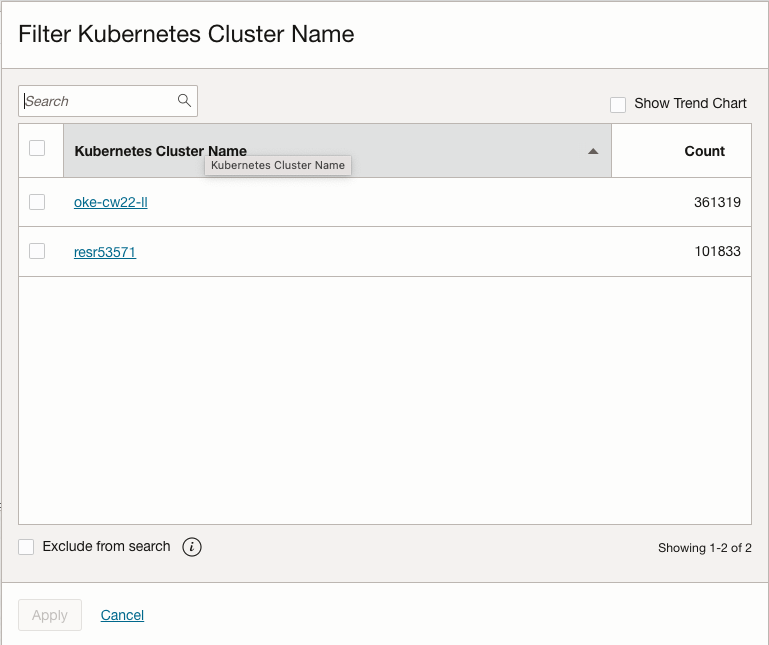
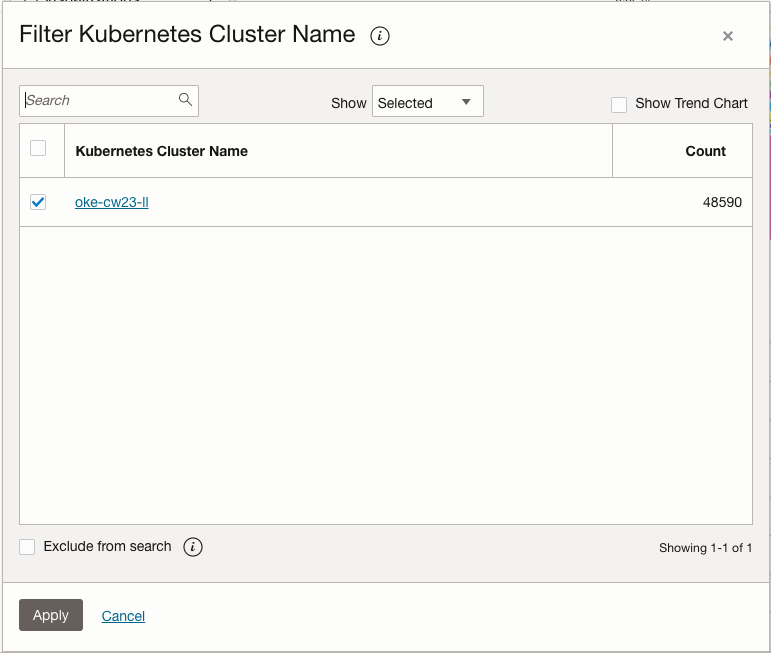
Lab 3 Task 3 Updated
Lab 3 Task 3 Updated

diff --git a/logging-analytics/oke-monitoring-la/analyzing-logs/analyzing-logs.md b/logging-analytics/oke-monitoring-la/analyzing-logs/analyzing-logs.md
@@ -14,12 +14,12 @@ Estimated Time: 30 minutes
 
 ## Task 1: View the Logs in Log Explorer
 1. From Navigation Menu ![navigation-menu](images/navigation-menu.png) > **Observability & Management** > **Logging Analytics** > **Log Explorer**.
-    > Note : For a quick refresher on Log Explorer GUI [review Lab 1](?lab=log-explorer-gui).
+    > **Note** : For a quick refresher on Log Explorer GUI [review Lab 1](?lab=log-explorer-gui).
 
 2. Once you land on the **Log Explorer** page if the scope has pre-selected **Log Group Compartment**, then you can reset it by clicking on the `x` icon.
    ![close-icon-for-scope-filter](images/close-icon-for-scope-filter.png)
     
-    > Note: If you have followed this step you can skip the below step.
+    > **Note**: If you have followed this step you can skip the below step.
    
    **OR**
 
@@ -46,7 +46,7 @@ Estimated Time: 30 minutes
 
 
 5. The **Pie** chart view in the context of **Log Group** will be displayed along with logrecords count for each **Log Group**.
-      > Note : The **Log Group** <em>kubernetes_logs</em> is precreated and it has VCN, LBaaS logs and it also has a copy of Kubernetes Logs ingested through Kubernetes Cluster **oke-cw23-II**.
+      > **Note** : The **Log Group** <em>kubernetes_logs</em> is precreated and it has VCN, LBaaS logs and it also has a copy of Kubernetes Logs ingested through Kubernetes Cluster **oke-cw23-II**.
    
    ![pie-chart-view-log-count](images/pie-chart-view-log-count.png) 
 
@@ -73,99 +73,82 @@ Estimated Time: 30 minutes
       ![sunburst-data-lg-ls](images/sunburst-data-lg-ls.png)
 
   - You can also hover over different colors of **Sunburst** chart to view the stats of the **Log Source**.
-         
+
+7. Before proceeding to **Task 2** perform the following step. 
+   - Click on **Actions** and in the menu item select **Create New**.
+     ![actions-create-new](images/actions-create-new.png)
+
+
+## Task 2 : Get inventory of namespace, pods, services, nodes for your cluster
 
 
 
-## Task 2 (To Be Removed as Task 1 End Notes Cover This): Review Logs in Log Groups
-
-1. Select the visualization **Horizontal Bar**. This will take you to the **Horizontal Bar** view in context of **Log Group** along with logrecords count for each **Log Group**.
-    ![horizontal-bar-view](images/horizontal-bar-view.png)
-    ![log-records-horizontal-bar-view](images/log-records-horizontal-bar-view.png)
-    
-
-2. In the Fields panel, in the Search Fields textbox, search for the field **Log Source**.
-    ![log-source-field-search](images/log-source-field-search.png)
-
-
-3. Drag and Drop the **Log Source** field in the **Group by** textbox under Visualization Panel and click **Apply**.
-    ![group-by-logsource-loggroup](images/group-by-logsource-loggroup.png)  
-
-4. The results will be grouped by **Log Source** and **Log Group**.
-    ![horizontal-bar-view-for-loggroup-logsource](images/horizontal-bar-view-for-loggroup-logsource.png)  
-
-
-5. You can also use the following query in the **Query Bar** to get the view the results.
-    > **Note:** Run this query only after step 1 is finished.
-
-      ```
-         <copy>
-           * | stats count as logrecords by 'Log Group', 'Log Source' | sort -logrecords
-          </copy>
-       ``` 
-
-6. (Optional) You can select any other visualization (e.g Sunburst, TreeMap etc) from the  **Visualizations** panel to view the data.  
-
-
-## Task 3 (To Be Updated and Task 5 will be removed): Get inventory of namespace, pods, services, nodes for your cluster
-
-### **Review Cluster**
-
-1. Select the visualization **Distinct**.
-    ![distinct-visualization](images/distinct-visualization.png)  
-
-2. In the Fields panel, in the Search Fields textbox, search for the field **Kubernetes Cluster Name**. Click on the resultant field **Kubernetes Cluster Name**.
-    ![k8s-cluster-name](images/k8s-cluster-name.png)  
-
-3. **Filter Kubernetes Cluster Name** pop-window will be displayed. All the Kubernetes Cluster Names will be displayed.
-
+1. In the Fields panel, in the Search Fields textbox, search for the field **Kubernetes Cluster Name**. Click on the resultant field **Kubernetes Cluster Name**.
+    ![k8s-cluster-name](images/k8s-cluster-name.png) 
+2. **Filter Kubernetes Cluster Name** pop-window will be displayed showing the OKE Cluster **oke-cw23-ll**.
+    Click on the checkbox of **oke-cw23-ll** and click **Apply**.
     ![filter-k8s-cluster-name](images/filter-k8s-cluster-name.png)
-
-4. Click on **Cancel** Button.
-
-5. Clear the field **Kubernetes Cluster Name** in the Fields panel's Search Fields textbox by clicking `x` button.
-
-
-### **Review Namespace**
-
-1. In the Fields panel, in the Search Fields textbox, search for the field **Namespace**. Click on the resultant field **Namespace**.
-   ![k8s-namespace](images/k8s-namespace.png) 
-
-2. **Filter Namespace** pop-window will be displayed. All the Kubernetes Namespaces will be displayed. 
-   ![k8s-namespace](images/filter-k8s-namespace.png) 
-
-3. Click on **Cancel** Button.
-
-4. Clear the text **Namespace** in the Fields panel's Search Fields textbox by clicking `x` button.    
-
-
-### **Review Pods**
-
-1. In the Fields panel, in the Search Fields textbox, search for the field **Pod**. Click on the resultant field **Pod**.
-   ![k8s-pod](images/k8s-pod.png) 
-
-2. **Filter Pod** pop-window will be displayed. All the Pods will be displayed. 
-   ![k8s-pod](images/filter-k8s-pod.png) 
-
-3. Click on **Cancel** Button.
-
-4. Clear the field **Pod** in the Fields panel's Search Fields textbox by clicking `x` button.   
-  
-
-### **Review Nodes**
-
-1. In the Fields panel, in the Search Fields textbox, search for the field **Node**. Click on the resultant field **Node**.
-   ![k8s-pod](images/k8s-node.png) 
-
-2. **Filter Node** pop-window will be displayed. All the Nodes will be displayed. Click on the checkbox of `Show Trend Chart`.
-   ![k8s-pod](images/filter-k8s-node.png) 
-
-3. Click on **Cancel** Button.
-
-4. Clear the field **Node** in the Fields panel's Search Fields textbox by clicking `x` button.
+    The Log Explorer will show the Pie-Chart Visualization of all the various logs that are being collected from the OKE cluster.
+    ![k8s-llcluster-data](images/k8s-llcluster-data.png)
+3. Filtering all the pods from a specific Namespace.
+      - In the Fields panel, in the Search Fields textbox, search for the field **Pod**. Click on the resultant field **Pod**. 
+         ![k8s-pod](images/k8s-pod.png)
+      - **Filter Pod** pop-window will be displayed. Around 100+ are running in the OKE Cluster. The popup-window shows results upto 100 pods.
+         ![k8s-pod](images/k8s-filter-pod.png)
+      -  Now in the Fields Panel, in the Search Fields textbox, search for the field **Namespace**. Click on the resultant field **Namespace**.
+      The popup-window display all the available **Namespace(s)** in the Kubernetes Cluster. 
+         ![k8s-filter-namespace](images/k8s-filter-namespace.png)
+      - Select the namespace **mushop** and click **Apply**.
+         ![mushop-ns](images/mushop-ns.png)
+         
+      - Now in the Fields Panel, in the Search Fields textbox, search for the field **Pod**. Click on the resultant field **Pod**.
+        In the popup-window you should now see all the Pods in the namespace **mushop**. If observed closely we can see that we have only 50 pods.
+         > **Note :** The number of pods in **mushop** namespace may differ.
+            
+         ![mushop-all-pods](images/mushop-all-pods.png)
 
 
-## Task 4 : Building Interactive Visualization for Deployments
+4. Selecting the **Kubernetes Pod Object Logs** Log Source
+      - In the Fields Panel, in the Search Fields textbox, search for the field **Log Source**. Click on the resultant field **Log Source**.
+      - In the popup-window, in the Search textbox, search for Log Source **Kubernetes Pod Object Logs**. 
+      - Click on the checkbox of **Kubernetes Pod Object Logs** Log Source.
+      - Click **Apply**. 
+        ![kubernetes-pods-log-source](images/kubernetes-pods-log-source.png)
+
+5. Select the visualization **Tree Map**.
+      ![visualization-treemap](images/visualization-treemap.png)
+6. Add **Node** Field to the Group By textbox. 
+      - In the Fields panel, in the Search Fields textbox, search for the field **Node**.
+      - In the resultant field, click on the three vertical dots menu icon.
+      - Click on the **Add to Group By** menu option.
+         ![node-to-groupby](images/node-to-groupby.png)
+      - Repeat the steps to add **Pod Phase** Field to the Group By textbox.
+      - Remove any other field in the Group By apart from **Node** and **Pod Phase**.
+      - The Group By textbox will look like the following. 
+            ![group-by-podphase-node](images/group-by-podphase-node.png) 
+
+7. Add Pod field to the **Value** textbox.
+      - In the Fields panel, in the Search Fields textbox, search for the field **Pod**.
+      - In the resultant field, click on the three vertical dots menu icon.
+      - Click on the **Add to Value** menu option.
+         ![pod-add-to-value](images/pod-add-to-value.png)
+      - The Value textbox will look like the following.
+         ![pod-in-value-textbox](images/pod-in-value-textbox.png)
+8. Determining the Pods running on each Node of the OKE Cluster.
+      - Click on the Drop Down icon in the Value textbox. Select the **Distinct Count** menu item.
+         ![distinct-count](images/distinct-count.png)
+      - Verify that the Value textbox & Group By textbox looks like the following. Click **Apply**.
+         ![number-of-pods-viz-panel](images/number-of-pods-viz-panel.png)
+      - All the Pods running on each **Node** of the OKE Cluster will be displayed.
+          ![number-of-pods-running-each-node](images/number-of-pods-running-each-node.png)
+      
+9. **End Notes :** 
+      - We have performed this excerise to show the capabilities of the **Logging Analytics** and ease of building the queries.
+      - We have already created a widget in the out-of-the-box Dashboard for viewing all the Pods on each Node of the OKE Cluster.
+      - You can view it under the widget **Failed/Pending Pods per Node** in the [Kubernetes Nodes Dashboard] (https://cloud.oracle.com/loganalytics/dashboards?id=ocid1.managementdashboard.oc1..aaaaaaaa6nwudwqff62jbjfwmextzwchmciqvwe5fv3aoaspjrk5e46clnbq).  
+
+
+## Task 3 : Building Interactive Visualization for Deployments
 
  In this task we will find what type of workloads are running in different namespaces and the names of those workloads.
 
@@ -213,86 +196,8 @@ Estimated Time: 30 minutes
    > Note : Upon expanding the Namespace icon we can also see No Value, need to check with Santhosh.
      
 
-## Task 5 (To Be Removed) : Find number of total pods, running pods in a namespace
-
-  > **Note** : Before moving on to the next steps. Clear the query bar and click on **Run**.
-
-1. Select the visualization **Pie Chart**.
-  ![distinct-visualization](images/distinct-visualization.png)
-
-2. In the Fields panel, in the Search Fields textbox, search for the field **Namespace**. Click on the resultant field **Namespace**.
-   ![k8s-namespace](images/k8s-namespace.png) 
-
-3. **Filter Namespace** pop-window will be displayed. All the Kubernetes Namespaces will be displayed. 
-   ![k8s-namespace](images/filter-k8s-namespace.png)
-
-4. You can select any namespace value from the list - for e.g **default**. Click on the **Apply**.
-   ![select-default-namespace](images/select-default-namespace.png)
-
-5. Clear the field **Namespace** in the Fields panel's Search Fields textbox by clicking `x` button.   
-
-6. In the Fields panel, in the Search Fields textbox, search for the field **Status**. Click on the resultant field **Status**.
-   ![k8s-pods-status](images/k8s-pods-status.png) 
-
-7. **Filter Status** pop-window will be displayed. All the pods status' will be displayed. 
-   ![filter-k8s-pods-status](images/filter-k8s-pods-status.png) 
-
-8. Select the status value **running** . Click on the **Apply**.
-   ![select-running-pod-status](images/select-running-pod-status.png)
-
-9. Clear the field **Status** in the Fields panel's Search Fields textbox by clicking `x` button.   
-
-10. In the Fields panel, in the Search Fields textbox, search for the field **Namespace**.
-   ![k8s-namespace](images/k8s-namespace.png) 
-
-11. Drag and Drop the **Namespace** field in the **Group by** textbox under Visualization Panel and click **Apply**.
-    ![group-by-namespace](images/group-by-namespace.png)
-
-12. Clear the field **Namespace** in the Fields panel's Search Fields textbox by clicking `x` button. 
-
-13. In the Fields panel, in the Search Fields textbox, search for the field **Pod**.
-   ![k8s-pod](images/k8s-pod.png) 
-
-14. Drag and Drop the **Pod** field in the **Value** textbox under Visualization Panel.
-    ![pod-field-in-value](images/pod-field-in-value.png)   
-
-15. Click on the Drop Down icon in the **Value** textbox. Select the **Distinct Count** menu item.
-    ![distinct-value-menu-item](images/distinct-value-menu-item.png)   
-
-16. Click on the **Apply** button.
-
-17. The count of all the distinct running Pods in the selected Namespace will be displayed.
-    ![distinct-running-pods-namespace](images/distinct-running-pods-namespace.png) 
-
-18. The query in the query bar will be following.
-    ```
-      <copy>
-        Namespace = default and Status = running | stats distinctcount(Pod) by Namespace
-      </copy>
-
-    ```  
-
-19. Edit the query and provide the Name to the `distinctcount(Pod)` using the **as** operator. 
-     - In the following query we used as operator and provided the Name `'Running Pods'` to the `distinctcount(Pod)`. 
-     - You can copy and paste the following query in the **Query Bar**.
-
-        ```
-          <copy>
-             Namespace = default and Status = running | stats distinctcount(Pod) as 'Running Pods' by Namespace
-          </copy>
-
-        ``` 
-      - The column name will be changed to **Running Pods**.
-      ![running-pods-as-operator](images/running-pods-as-operator.png) 
-
-   > **Note** : Click the **x** icon in the query bar and click on the **Run** button before  moving to next Task.   
-
-      
-
-    
-
-
-## Task 6 : Viewing Kubernetes Events
+ 
+## Task 4 : Viewing Kubernetes Events
 
 1. Run the following query in the Query Bar.
         ```  
@@ -332,7 +237,7 @@ Estimated Time: 30 minutes
 
 
 
-## Task 7 : Add Visualization to the Dashboard
+## Task 5 : Add Visualization to the Dashboard
 
 1. Select the visualization **Bar**.
    ![bar-chart-visualization](images/bar-chart-visualization.png)
@@ -346,14 +251,14 @@ Estimated Time: 30 minutes
 4. Click on the **Save as** option.
    ![save-as-button](images/save-as-button.png)
 
-5. A **Save search** pop up will be displayed. By default your user's **Compartment** in selected in **Save Search Compartment** dropdown.
+5. A **Save search** pop up will be displayed. By default your user's **Compartment** is selected in **Save Search Compartment** dropdown.
    ![save-search-popup](images/save-search-popup.png)
-    > Note : You will see the Authorization error if any other **Compartment** is selected in **Save Search Compartment** dropdown.
+    > **Note** : You will see the Authorization error if any other **Compartment** is selected in **Save Search Compartment** dropdown.
 
 6. In the  **Save search** pop up perform the following actions.
    
     - (Optional) Type the **Compartment** name in the **Saved Search Compartment** for your user the **Compartment** name will be **LLresrvationid-COMPARTMENT**.  You can always find the **Compartment** name from the View Login Info page.
-        > Note : This step is optional if you have not changed the **Compartment** in step 5.
+        > **Note** : This step is optional if you have not changed the **Compartment** in step 5.
         
 
     - Enter the **Search Name**.
@@ -379,14 +284,14 @@ Estimated Time: 30 minutes
      
       ```
 
-8. A Dashboards Page will be displayed. Click on the Dashboard Name that you have created in the Step 5.
+8. A Dashboards Page will be displayed. Click on the Dashboard Name that you have created in the Step 6.
     ![dashboards-page](images/dashboards-page.png)
 
 9. A widget showing the saved search data will be displayed.
     ![dashboard-with-widget](images/dashboard-with-widget.png)
 
 
-## Task 8 : Collecting Application Logs (Custom Log Sources)
+## Task 6 : Collecting Application Logs (Custom Log Sources)
 
 1. From Navigation Menu ![navigation-menu](images/navigation-menu.png) > **Observability & Management** > **Logging Analytics** > **Log Explorer**.
 
@@ -422,7 +327,7 @@ Estimated Time: 30 minutes
 7. End Note : Change the values in the Time Picker to **Last 24 Hours**, **Last 14 Days** etc and check whether the line chart changes.  
 
 
-## Task 9 : Find average daily  sales amount
+## Task 7 : Find average daily  sales amount
 
    We looked at the trend of revenue in previous task. In this task we want to find out average **Sales Amount** that is processed.    
 
@@ -470,7 +375,7 @@ Estimated Time: 30 minutes
 
          
                  
-## Task 10 : Workshop Show and Tell
+## Task 8 : Workshop Show and Tell
 
 You'll get the opportunity to showcase your dashboard at the end of the lab. You can add any visualization that you like to your dashboard - here are few examples.
   - Find average number of orders per day, per hour ?
